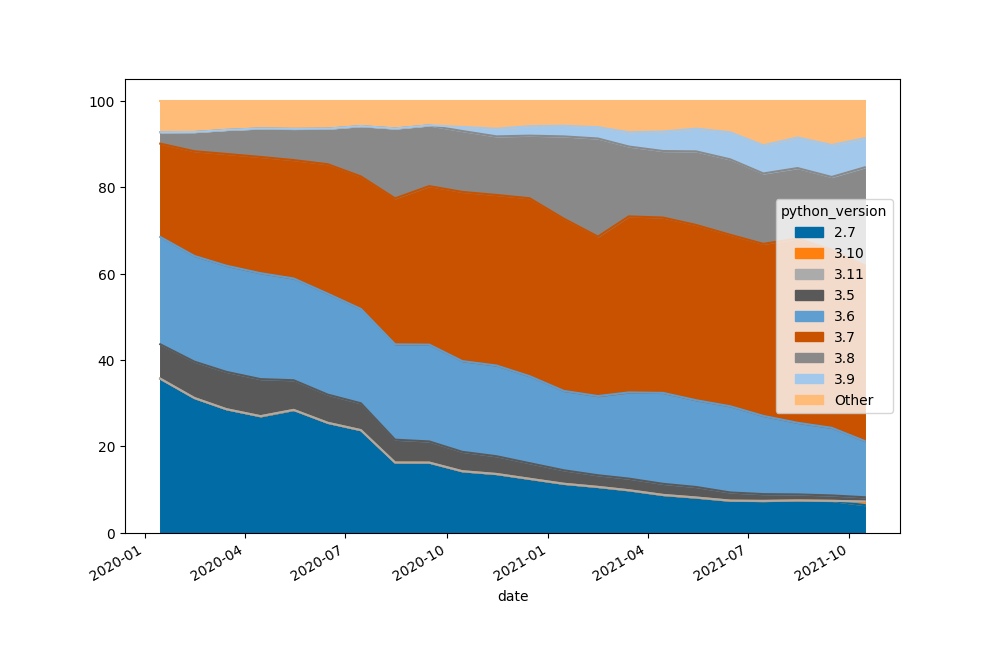
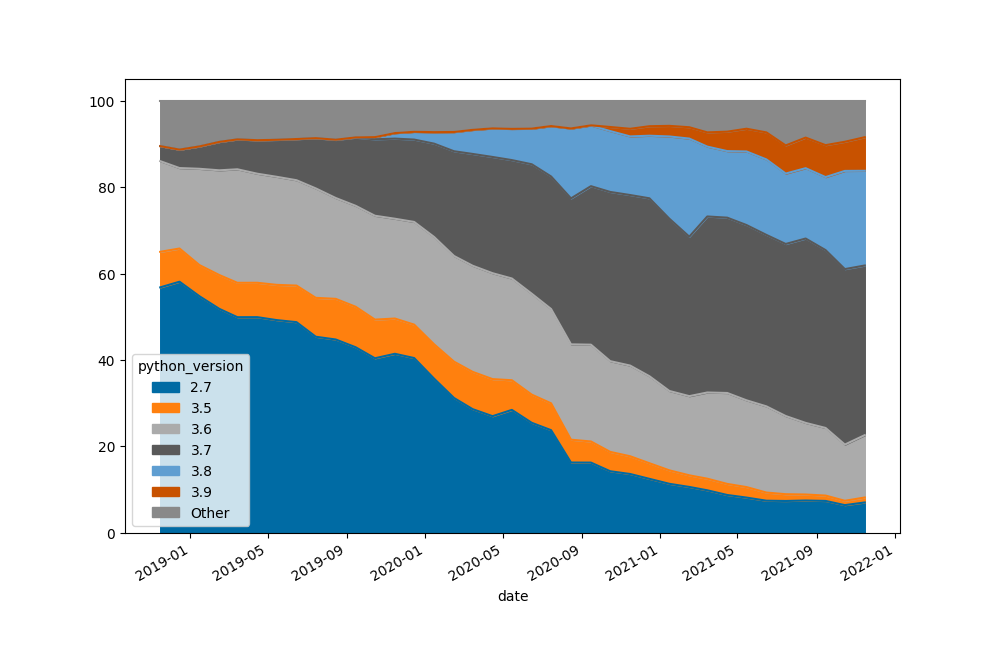
Bump data.

diff --git a/python-versions.py b/python-versions.py
@@ -6,7 +6,7 @@ import sqlite3
 import sys
 from datetime import datetime, timedelta, date
 from collections import defaultdict
-from itertools import cycle
+from itertools import cycle, count
 
 import pandas as pd
 from pypinfo.fields import PythonVersion
@@ -84,9 +84,9 @@ def query_python_versions(start_date: str, end_date: str) -> list[tuple[str, int
 def fetch_main():
     db = DB()
     today = date.today()
-    for year_in_the_past in 1, 0:
+    for year_in_the_past in count():
         year = today.year - year_in_the_past
-        for month in range(1, 13):
+        for month in reversed(range(1, 13)):
             start_date = date(year, month, 1)
             end_date = start_date.replace(
                 day=calendar.monthrange(year, month)[1]
@@ -154,9 +154,10 @@ def plot_pct():
     versions["date"] = pd.to_datetime(versions.start_date) + timedelta(days=14)
     versions.set_index(["python_version", "date"], inplace=True)
     to_plot = versions.pct.unstack(0, fill_value=0)
-    to_plot["Other"] += to_plot["2.6"] + to_plot["3.3"] + to_plot["3.4"]
-    del to_plot["2.6"], to_plot["3.3"], to_plot["3.4"]
-    print(to_plot)
+    for version in to_plot:
+        if to_plot[version].sum() < to_plot.sum().sum() / 75:
+            to_plot["Other"] += to_plot[version]
+            del to_plot[version]
     plt.style.use("tableau-colorblind10")
     to_plot.plot.area(stacked=True, figsize=(10, 10 * 2 / 3))
     plt.savefig("python-versions-pct.png")
